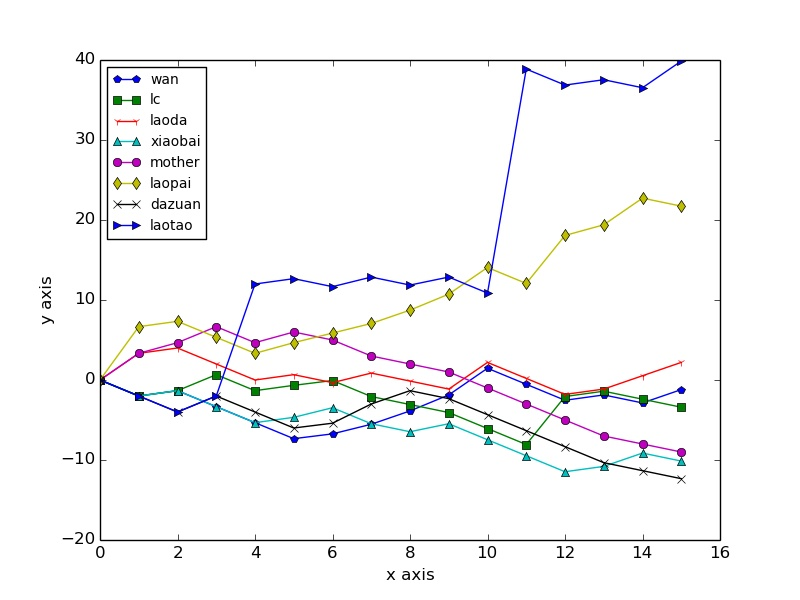
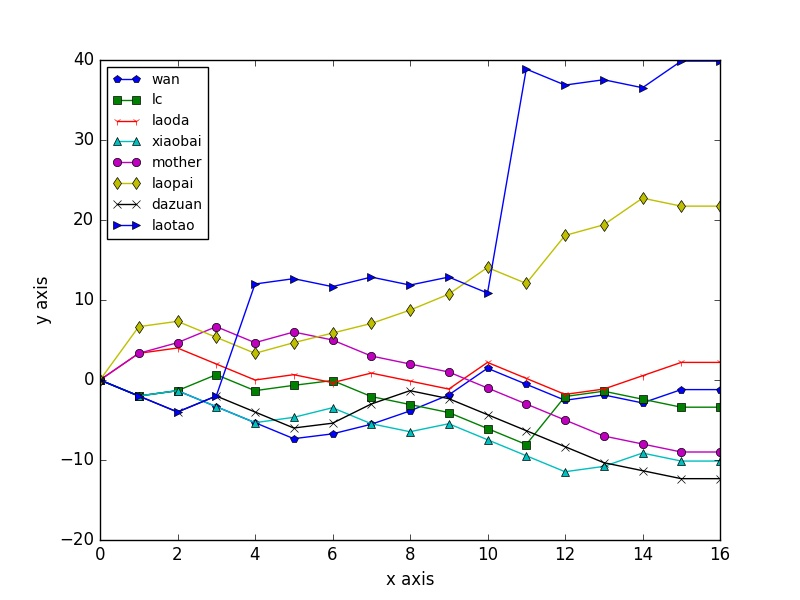
update

diff --git a/README.md b/README.md
@@ -1,6 +1,6 @@
 # E cup guess competition report
 ## real-time ranking
-2016-06-16 16:52:14
+2016-06-16 22:59:35
 
 |rank|name|score|
 |:---:|:---:|:---:|
@@ -18,6 +18,26 @@
 
 ## History
 ![image](https://github.com/Anserw/E_Cup/blob/master/plot.jpg)
+### 2016061621 England 2 : 1 Welsh
+- handicap: -1
+- scorer: laotao
+- owners:
+ - England: mother
+ - Welsh: xiaobai
+
+
+|name|guess|score change|
+|:---:|:---:|:---:|
+|wan|France|0.00|
+|lc|Albania|0.00|
+|laoda|France|0.00|
+|xiaobai|Albania|0.00|
+|mother|Albania|0.00|
+|laopai|Albania|0.00|
+|dazuan|Albania|0.00|
+|laotao|France|0.00|
+|Pond|..|0.00|
+
 ### 2016061603 France 2 : 0 Albania
 - handicap: -1.5 / -2
 - scorer: laotao
